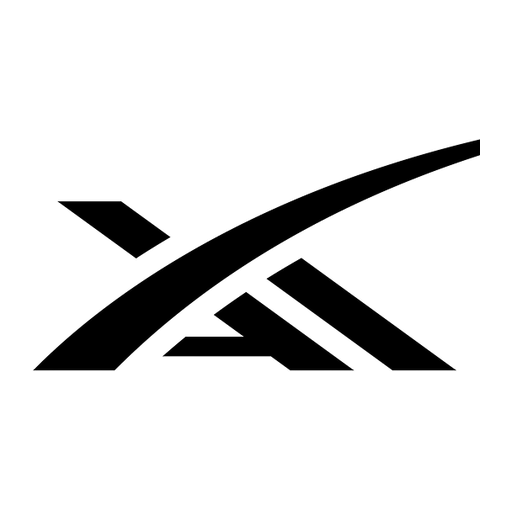
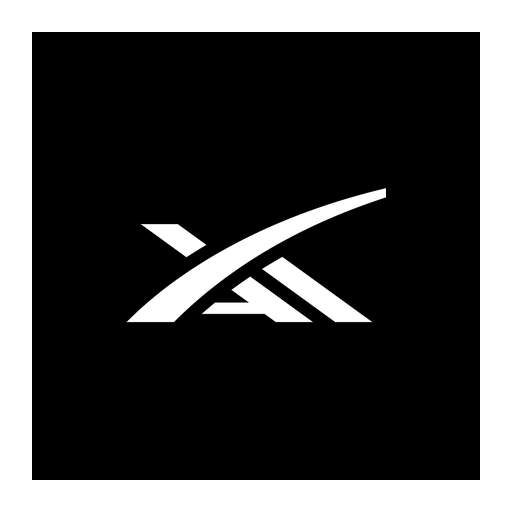
fix(readme): make the Grok mark visible on GitHub's dark theme
The vendored SpaceXAI symbol was the black transparent variant — measured 87%
transparent — so on the dark ground this README is usually read on it was a black
glyph on near-black and effectively invisible. The engine row showed a gap where
Grok should be.

xAI publishes the same symbol in white; that is the file the web app already
vendors. It is composited unchanged onto a 448px black tile, the shape pi.png and
commandcode.png already use, so the mark now reads on both GitHub themes. The
symbol itself is untouched — not recoloured, not redrawn, only given a ground —
and the provenance note says so plainly.

diff --git a/.github/assets/engines/README.md b/.github/assets/engines/README.md
@@ -29,7 +29,7 @@ a retina display.
[6 lines of base64/hex data omitted]
 
 Open items, recorded rather than left implicit:
@@ -45,10 +45,17 @@ Open items, recorded rather than left implicit:
   for in-app engine identification on the project owner's decision; a public README is a more visible
   use than an in-app badge, and that decision should be confirmed rather than inherited.
 - **Light and dark themes.** Several marks are opaque tiles (Claude orange, Command Code and Pi
-  black, OpenCode and Hermes white, Amp dark green) and a few are transparent glyphs, including Grok's
-  black SpaceXAI symbol. GitHub renders
+  black, OpenCode and Hermes white, Amp dark green) and a few are transparent glyphs. GitHub renders
   this README on both grounds; the glyphs are the ones to re-check if a theme change makes one
   disappear.
+
+- **`grok.png` is the one mark given a ground it did not ship with.** xAI publishes the SpaceXAI
+  symbol as a transparent glyph in black and in white, and neither survives both GitHub themes on its
+  own: the black one measured 87% transparent and vanished on the dark ground this README is most
+  often read on. The WHITE variant — the same file the web app vendors — is composited unchanged onto
+  a 448px black tile, the same tile shape `pi.png` and `commandcode.png` already use. The mark itself
+  is untouched: not recoloured, not redrawn, only placed on a ground. If xAI would rather it stood
+  alone, dropping the tile is a one-line change.
 - **`amp.png` is the app icon, not the bare mark.** Amp publishes both: the `apple-touch-icon` used
   here, and a transparent single-colour glyph at `/amp-mark-color.svg` (all paths `#F34E3F`, so it
   would read on either ground). The app icon was taken because it is the same class of asset as
